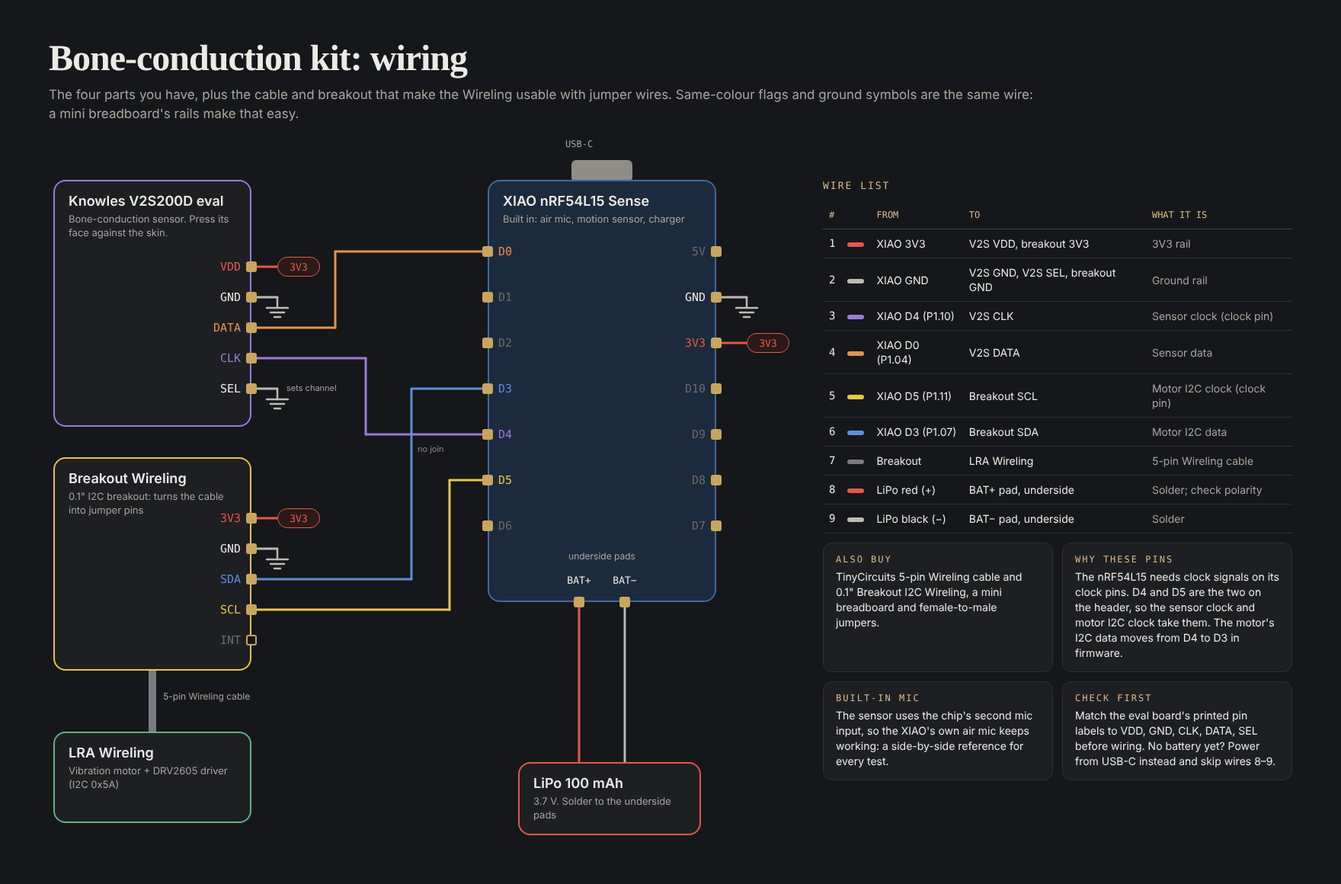
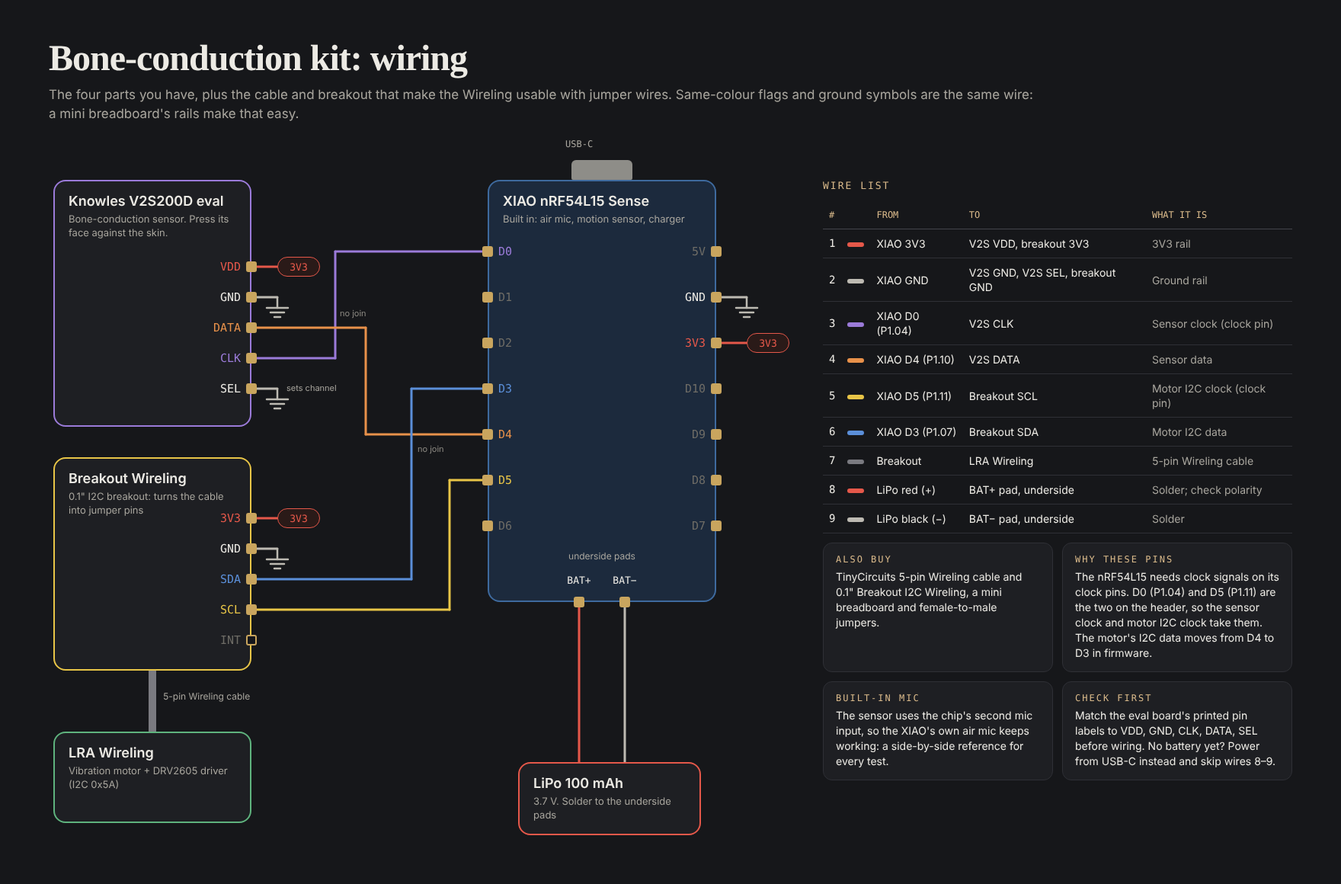
Apply Ezurio Note 7 pin map and move kit sensor clock to a clock pin
Dev board: fast clocks move off P1.09-P1.12 (PDM_CLK P1.03, TDM_BCLK P1.08,
I2C_SCL P1.04, I2C_SDA P1.13). Only slow signals stay on the Note 7 pins,
each through a 330 R (R7-R9). I2C test points added. Checker enforces Note 7
and the confirmed clock-pin list (P1.03, P1.04, P1.08, P1.11, P1.12).

Kit: P1.10 is not a clock pin, so the V2S200D clock moves to D0 (P1.04)
and its data to D4.

Claude-Session: https://claude.ai/code/session_01DUSU7jbUyc6QVB5XjyAbxC

diff --git a/hardware/kit/kit_wiring.html b/hardware/kit/kit_wiring.html
@@ -19,12 +19,12 @@ a{color:#D9B98A}a:hover{color:#F0D7AE}
 <svg width="8" height="80" viewBox="0 0 8 80" preserveAspectRatio="none" style="position: absolute; left: 196px; top: 880px; width: 8px; height: 80px; overflow: visible; fill: none; stroke: #7A7A80; stroke-width: 10; stroke-linecap: round"><path d="M 4 0 L 4 80"></path></svg>
 <svg width="8" height="210" viewBox="0 0 8 210" preserveAspectRatio="none" style="position: absolute; left: 756px; top: 790px; width: 8px; height: 210px; overflow: visible; fill: none; stroke: #E5584A; stroke-width: 3; stroke-linecap: round"><path d="M 4 0 L 4 210"></path></svg>
 <svg width="8" height="210" viewBox="0 0 8 210" preserveAspectRatio="none" style="position: absolute; left: 816px; top: 790px; width: 8px; height: 210px; overflow: visible; fill: none; stroke: #BDBAB2; stroke-width: 3; stroke-linecap: round"><path d="M 4 0 L 4 210"></path></svg>
-<svg width="110" height="8" viewBox="0 0 110 8" preserveAspectRatio="none" style="position: absolute; left: 330px; top: 426px; width: 110px; height: 8px; overflow: visible; fill: none; stroke: #E8914A; stroke-width: 3; stroke-linecap: round"><path d="M 0 4 L 110 4"></path></svg>
-<svg width="8" height="100" viewBox="0 0 8 100" preserveAspectRatio="none" style="position: absolute; left: 436px; top: 330px; width: 8px; height: 100px; overflow: visible; fill: none; stroke: #E8914A; stroke-width: 3; stroke-linecap: round"><path d="M 4 0 L 4 100"></path></svg>
-<svg width="200" height="8" viewBox="0 0 200 8" preserveAspectRatio="none" style="position: absolute; left: 440px; top: 326px; width: 200px; height: 8px; overflow: visible; fill: none; stroke: #E8914A; stroke-width: 3; stroke-linecap: round"><path d="M 0 4 L 200 4"></path></svg>
-<svg width="150" height="8" viewBox="0 0 150 8" preserveAspectRatio="none" style="position: absolute; left: 330px; top: 466px; width: 150px; height: 8px; overflow: visible; fill: none; stroke: #9B7BD9; stroke-width: 3; stroke-linecap: round"><path d="M 0 4 L 150 4"></path></svg>
-<svg width="8" height="100" viewBox="0 0 8 100" preserveAspectRatio="none" style="position: absolute; left: 476px; top: 470px; width: 8px; height: 100px; overflow: visible; fill: none; stroke: #9B7BD9; stroke-width: 3; stroke-linecap: round"><path d="M 4 0 L 4 100"></path></svg>
-<svg width="160" height="8" viewBox="0 0 160 8" preserveAspectRatio="none" style="position: absolute; left: 480px; top: 566px; width: 160px; height: 8px; overflow: visible; fill: none; stroke: #9B7BD9; stroke-width: 3; stroke-linecap: round"><path d="M 0 4 L 160 4"></path></svg>
+<svg width="110" height="8" viewBox="0 0 110 8" preserveAspectRatio="none" style="position: absolute; left: 330px; top: 466px; width: 110px; height: 8px; overflow: visible; fill: none; stroke: #9B7BD9; stroke-width: 3; stroke-linecap: round"><path d="M 0 4 L 110 4"></path></svg>
+<svg width="8" height="140" viewBox="0 0 8 140" preserveAspectRatio="none" style="position: absolute; left: 436px; top: 330px; width: 8px; height: 140px; overflow: visible; fill: none; stroke: #9B7BD9; stroke-width: 3; stroke-linecap: round"><path d="M 4 0 L 4 140"></path></svg>
+<svg width="200" height="8" viewBox="0 0 200 8" preserveAspectRatio="none" style="position: absolute; left: 440px; top: 326px; width: 200px; height: 8px; overflow: visible; fill: none; stroke: #9B7BD9; stroke-width: 3; stroke-linecap: round"><path d="M 0 4 L 200 4"></path></svg>
+<svg width="150" height="8" viewBox="0 0 150 8" preserveAspectRatio="none" style="position: absolute; left: 330px; top: 426px; width: 150px; height: 8px; overflow: visible; fill: none; stroke: #E8914A; stroke-width: 3; stroke-linecap: round"><path d="M 0 4 L 150 4"></path></svg>
+<svg width="8" height="140" viewBox="0 0 8 140" preserveAspectRatio="none" style="position: absolute; left: 476px; top: 430px; width: 8px; height: 140px; overflow: visible; fill: none; stroke: #E8914A; stroke-width: 3; stroke-linecap: round"><path d="M 4 0 L 4 140"></path></svg>
+<svg width="160" height="8" viewBox="0 0 160 8" preserveAspectRatio="none" style="position: absolute; left: 480px; top: 566px; width: 160px; height: 8px; overflow: visible; fill: none; stroke: #E8914A; stroke-width: 3; stroke-linecap: round"><path d="M 0 4 L 160 4"></path></svg>
 <svg width="210" height="8" viewBox="0 0 210 8" preserveAspectRatio="none" style="position: absolute; left: 330px; top: 756px; width: 210px; height: 8px; overflow: visible; fill: none; stroke: #5B8FD9; stroke-width: 3; stroke-linecap: round"><path d="M 0 4 L 210 4"></path></svg>
 <svg width="8" height="250" viewBox="0 0 8 250" preserveAspectRatio="none" style="position: absolute; left: 536px; top: 510px; width: 8px; height: 250px; overflow: visible; fill: none; stroke: #5B8FD9; stroke-width: 3; stroke-linecap: round"><path d="M 4 0 L 4 250"></path></svg>
 <svg width="100" height="8" viewBox="0 0 100 8" preserveAspectRatio="none" style="position: absolute; left: 540px; top: 506px; width: 100px; height: 8px; overflow: visible; fill: none; stroke: #5B8FD9; stroke-width: 3; stroke-linecap: round"><path d="M 0 4 L 100 4"></path></svg>
@@ -64,7 +64,7 @@ a{color:#D9B98A}a:hover{color:#F0D7AE}
 <div style="position: absolute; left: 660px; top: 278px; width: 260px; font-size: 13px; line-height: 18px; color: #A9A69E">Built in: air mic, motion sensor, charger</div>
 <div style="position: absolute; left: 742px; top: 180px; width: 100px; font-size: 12px; line-height: 17px; color: #A9A69E"><span style="font-family: IBM Plex Mono, monospace">USB-C</span></div>
 <div style="position: absolute; left: 633px; top: 323px; width: 14px; height: 14px; box-sizing: border-box; background: #C9A55E; border: 2px solid #C9A55E; border-radius: 3px"></div>
-<div style="position: absolute; left: 654px; top: 320px; width: 120px; font-family: 'IBM Plex Mono', monospace; font-size: 15px; line-height: 20px; color: #E8914A">D0</div>
+<div style="position: absolute; left: 654px; top: 320px; width: 120px; font-family: 'IBM Plex Mono', monospace; font-size: 15px; line-height: 20px; color: #9B7BD9">D0</div>
 <div style="position: absolute; left: 633px; top: 383px; width: 14px; height: 14px; box-sizing: border-box; background: #C9A55E; border: 2px solid #C9A55E; border-radius: 3px"></div>
 <div style="position: absolute; left: 654px; top: 380px; width: 120px; font-family: 'IBM Plex Mono', monospace; font-size: 15px; line-height: 20px; color: #6E6C66">D1</div>
 <div style="position: absolute; left: 633px; top: 443px; width: 14px; height: 14px; box-sizing: border-box; background: #C9A55E; border: 2px solid #C9A55E; border-radius: 3px"></div>
@@ -72,7 +72,7 @@ a{color:#D9B98A}a:hover{color:#F0D7AE}
 <div style="position: absolute; left: 633px; top: 503px; width: 14px; height: 14px; box-sizing: border-box; background: #C9A55E; border: 2px solid #C9A55E; border-radius: 3px"></div>
 <div style="position: absolute; left: 654px; top: 500px; width: 120px; font-family: 'IBM Plex Mono', monospace; font-size: 15px; line-height: 20px; color: #5B8FD9">D3</div>
 <div style="position: absolute; left: 633px; top: 563px; width: 14px; height: 14px; box-sizing: border-box; background: #C9A55E; border: 2px solid #C9A55E; border-radius: 3px"></div>
-<div style="position: absolute; left: 654px; top: 560px; width: 120px; font-family: 'IBM Plex Mono', monospace; font-size: 15px; line-height: 20px; color: #9B7BD9">D4</div>
+<div style="position: absolute; left: 654px; top: 560px; width: 120px; font-family: 'IBM Plex Mono', monospace; font-size: 15px; line-height: 20px; color: #E8914A">D4</div>
 <div style="position: absolute; left: 633px; top: 623px; width: 14px; height: 14px; box-sizing: border-box; background: #C9A55E; border: 2px solid #C9A55E; border-radius: 3px"></div>
 <div style="position: absolute; left: 654px; top: 620px; width: 120px; font-family: 'IBM Plex Mono', monospace; font-size: 15px; line-height: 20px; color: #E8C547">D5</div>
 <div style="position: absolute; left: 633px; top: 683px; width: 14px; height: 14px; box-sizing: border-box; background: #C9A55E; border: 2px solid #C9A55E; border-radius: 3px"></div>
@@ -127,11 +127,12 @@ a{color:#D9B98A}a:hover{color:#F0D7AE}
 <div style="position: absolute; left: 214px; top: 905px; width: 170px; font-size: 12px; line-height: 17px; color: #A9A69E">5-pin Wireling cable</div>
 <div style="position: absolute; left: 700px; top: 1016px; width: 200px; font-size: 18px; line-height: 24px; font-weight: 600">LiPo 100 mAh</div>
 <div style="position: absolute; left: 700px; top: 1042px; width: 200px; font-size: 13px; line-height: 18px; color: #A9A69E">3.7 V. Solder to the underside pads</div>
+<div style="position: absolute; left: 446px; top: 404px; width: 70px; font-size: 11px; line-height: 14px; color: #8E8B84">no join</div>
 <div style="position: absolute; left: 548px; top: 582px; width: 70px; font-size: 11px; line-height: 14px; color: #8E8B84">no join</div>
 <div style="position: absolute; left: 364px; top: 337px; width: 56px; height: 26px; box-sizing: border-box; display: flex; align-items: center; justify-content: center; background: #2A1A18; border: 1.5px solid #E5584A; border-radius: 13px; font-family: 'IBM Plex Mono', monospace; font-size: 13px; font-weight: 500; color: #E5584A">3V3</div>
 <div style="position: absolute; left: 364px; top: 667px; width: 56px; height: 26px; box-sizing: border-box; display: flex; align-items: center; justify-content: center; background: #2A1A18; border: 1.5px solid #E5584A; border-radius: 13px; font-family: 'IBM Plex Mono', monospace; font-size: 13px; font-weight: 500; color: #E5584A">3V3</div>
 <div style="position: absolute; left: 980px; top: 437px; width: 56px; height: 26px; box-sizing: border-box; display: flex; align-items: center; justify-content: center; background: #2A1A18; border: 1.5px solid #E5584A; border-radius: 13px; font-family: 'IBM Plex Mono', monospace; font-size: 13px; font-weight: 500; color: #E5584A">3V3</div>
-<div style="position: absolute; left: 376px; top: 502px; width: 90px; font-size: 11px; line-height: 15px; color: #A9A69E">sets channel</div><div style="position: absolute; left: 64px; top: 48px; font-family: 'Bricolage Grotesque', Georgia, serif; font-size: 48px; font-weight: 700; letter-spacing: -1px; line-height: 56px">Bone-conduction kit: wiring</div><div style="position: absolute; left: 64px; top: 112px; width: 1300px; font-size: 17px; line-height: 25px; color: #A9A69E">The four parts you have, plus the cable and breakout that make the Wireling usable with jumper wires. Same-colour flags and ground symbols are the same wire: a mini breadboard's rails make that easy.</div><div style="position: absolute; left: 1080px; top: 236px; width: 616px; display: flex; flex-direction: column; gap: 14px"><div style="font-family: 'IBM Plex Mono', monospace; font-size: 13px; letter-spacing: 2px; color: #D9B98A">WIRE LIST</div><table style="width: 616px; border-collapse: collapse; font-size: 14px; line-height: 19px; text-align: left"><tr><th style="padding: 8px; font-family: 'IBM Plex Mono', monospace; font-size: 12px; font-weight: 500; color: #D9B98A; border-bottom: 1px solid #44454B">#</th><th style="border-bottom: 1px solid #44454B"></th><th style="padding: 8px; font-family: 'IBM Plex Mono', monospace; font-size: 12px; font-weight: 500; color: #D9B98A; border-bottom: 1px solid #44454B">FROM</th><th style="padding: 8px; font-family: 'IBM Plex Mono', monospace; font-size: 12px; font-weight: 500; color: #D9B98A; border-bottom: 1px solid #44454B">TO</th><th style="padding: 8px; font-family: 'IBM Plex Mono', monospace; font-size: 12px; font-weight: 500; color: #D9B98A; border-bottom: 1px solid #44454B">WHAT IT IS</th></tr><tr><td style="padding: 9px 8px; border-bottom: 1px solid #2F3036; font-family: 'IBM Plex Mono', monospace">1</td><td style="padding: 9px 8px; border-bottom: 1px solid #2F3036"><span style="display: inline-block; width: 22px; height: 6px; border-radius: 3px; background: #E5584A; vertical-align: middle"></span></td><td style="padding: 9px 8px; border-bottom: 1px solid #2F3036">XIAO 3V3</td><td style="padding: 9px 8px; border-bottom: 1px solid #2F3036">V2S VDD, breakout 3V3</td><td style="padding: 9px 8px; border-bottom: 1px solid #2F3036; color: #A9A69E">3V3 rail</td></tr><tr><td style="padding: 9px 8px; border-bottom: 1px solid #2F3036; font-family: 'IBM Plex Mono', monospace">2</td><td style="padding: 9px 8px; border-bottom: 1px solid #2F3036"><span style="display: inline-block; width: 22px; height: 6px; border-radius: 3px; background: #BDBAB2; vertical-align: middle"></span></td><td style="padding: 9px 8px; border-bottom: 1px solid #2F3036">XIAO GND</td><td style="padding: 9px 8px; border-bottom: 1px solid #2F3036">V2S GND, V2S SEL, breakout GND</td><td style="padding: 9px 8px; border-bottom: 1px solid #2F3036; color: #A9A69E">Ground rail</td></tr><tr><td style="padding: 9px 8px; border-bottom: 1px solid #2F3036; font-family: 'IBM Plex Mono', monospace">3</td><td style="padding: 9px 8px; border-bottom: 1px solid #2F3036"><span style="display: inline-block; width: 22px; height: 6px; border-radius: 3px; background: #9B7BD9; vertical-align: middle"></span></td><td style="padding: 9px 8px; border-bottom: 1px solid #2F3036">XIAO D4 (P1.10)</td><td style="padding: 9px 8px; border-bottom: 1px solid #2F3036">V2S CLK</td><td style="padding: 9px 8px; border-bottom: 1px solid #2F3036; color: #A9A69E">Sensor clock (clock pin)</td></tr><tr><td style="padding: 9px 8px; border-bottom: 1px solid #2F3036; font-family: 'IBM Plex Mono', monospace">4</td><td style="padding: 9px 8px; border-bottom: 1px solid #2F3036"><span style="display: inline-block; width: 22px; height: 6px; border-radius: 3px; background: #E8914A; vertical-align: middle"></span></td><td style="padding: 9px 8px; border-bottom: 1px solid #2F3036">XIAO D0 (P1.04)</td><td style="padding: 9px 8px; border-bottom: 1px solid #2F3036">V2S DATA</td><td style="padding: 9px 8px; border-bottom: 1px solid #2F3036; color: #A9A69E">Sensor data</td></tr><tr><td style="padding: 9px 8px; border-bottom: 1px solid #2F3036; font-family: 'IBM Plex Mono', monospace">5</td><td style="padding: 9px 8px; border-bottom: 1px solid #2F3036"><span style="display: inline-block; width: 22px; height: 6px; border-radius: 3px; background: #E8C547; vertical-align: middle"></span></td><td style="padding: 9px 8px; border-bottom: 1px solid #2F3036">XIAO D5 (P1.11)</td><td style="padding: 9px 8px; border-bottom: 1px solid #2F3036">Breakout SCL</td><td style="padding: 9px 8px; border-bottom: 1px solid #2F3036; color: #A9A69E">Motor I2C clock (clock pin)</td></tr><tr><td style="padding: 9px 8px; border-bottom: 1px solid #2F3036; font-family: 'IBM Plex Mono', monospace">6</td><td style="padding: 9px 8px; border-bottom: 1px solid #2F3036"><span style="display: inline-block; width: 22px; height: 6px; border-radius: 3px; background: #5B8FD9; vertical-align: middle"></span></td><td style="padding: 9px 8px; border-bottom: 1px solid #2F3036">XIAO D3 (P1.07)</td><td style="padding: 9px 8px; border-bottom: 1px solid #2F3036">Breakout SDA</td><td style="padding: 9px 8px; border-bottom: 1px solid #2F3036; color: #A9A69E">Motor I2C data</td></tr><tr><td style="padding: 9px 8px; border-bottom: 1px solid #2F3036; font-family: 'IBM Plex Mono', monospace">7</td><td style="padding: 9px 8px; border-bottom: 1px solid #2F3036"><span style="display: inline-block; width: 22px; height: 6px; border-radius: 3px; background: #7A7A80; vertical-align: middle"></span></td><td style="padding: 9px 8px; border-bottom: 1px solid #2F3036">Breakout</td><td style="padding: 9px 8px; border-bottom: 1px solid #2F3036">LRA Wireling</td><td style="padding: 9px 8px; border-bottom: 1px solid #2F3036; color: #A9A69E">5-pin Wireling cable</td></tr><tr><td style="padding: 9px 8px; border-bottom: 1px solid #2F3036; font-family: 'IBM Plex Mono', monospace">8</td><td style="padding: 9px 8px; border-bottom: 1px solid #2F3036"><span style="display: inline-block; width: 22px; height: 6px; border-radius: 3px; background: #E5584A; vertical-align: middle"></span></td><td style="padding: 9px 8px; border-bottom: 1px solid #2F3036">LiPo red (+)</td><td style="padding: 9px 8px; border-bottom: 1px solid #2F3036">BAT+ pad, underside</td><td style="padding: 9px 8px; border-bottom: 1px solid #2F3036; color: #A9A69E">Solder; check polarity</td></tr><tr><td style="padding: 9px 8px; border-bottom: 1px solid #2F3036; font-family: 'IBM Plex Mono', monospace">9</td><td style="padding: 9px 8px; border-bottom: 1px solid #2F3036"><span style="display: inline-block; width: 22px; height: 6px; border-radius: 3px; background: #BDBAB2; vertical-align: middle"></span></td><td style="padding: 9px 8px; border-bottom: 1px solid #2F3036">LiPo black (−)</td><td style="padding: 9px 8px; border-bottom: 1px solid #2F3036">BAT− pad, underside</td><td style="padding: 9px 8px; border-bottom: 1px solid #2F3036; color: #A9A69E">Solder</td></tr></table></div><div style="position: absolute; left: 1080px; top: 712px; width: 616px; display: grid; grid-template-columns: repeat(2, minmax(0, 1fr)); gap: 12px"><div style="background: #1E1F23; border: 1px solid #2F3036; border-radius: 12px; padding: 14px 16px; display: flex; flex-direction: column; gap: 6px"><div style="font-family: 'IBM Plex Mono', monospace; font-size: 12px; letter-spacing: 2px; color: #D9B98A">ALSO BUY</div><div style="font-size: 14px; line-height: 20px">TinyCircuits 5-pin Wireling cable and 0.1&quot; Breakout I2C Wireling, a mini breadboard and female-to-male jumpers.</div></div><div style="background: #1E1F23; border: 1px solid #2F3036; border-radius: 12px; padding: 14px 16px; display: flex; flex-direction: column; gap: 6px"><div style="font-family: 'IBM Plex Mono', monospace; font-size: 12px; letter-spacing: 2px; color: #D9B98A">WHY THESE PINS</div><div style="font-size: 14px; line-height: 20px">The nRF54L15 needs clock signals on its clock pins. D4 and D5 are the two on the header, so the sensor clock and motor I2C clock take them. The motor's I2C data moves from D4 to D3 in firmware.</div></div><div style="background: #1E1F23; border: 1px solid #2F3036; border-radius: 12px; padding: 14px 16px; display: flex; flex-direction: column; gap: 6px"><div style="font-family: 'IBM Plex Mono', monospace; font-size: 12px; letter-spacing: 2px; color: #D9B98A">BUILT-IN MIC</div><div style="font-size: 14px; line-height: 20px">The sensor uses the chip's second mic input, so the XIAO's own air mic keeps working: a side-by-side reference for every test.</div></div><div style="background: #1E1F23; border: 1px solid #2F3036; border-radius: 12px; padding: 14px 16px; display: flex; flex-direction: column; gap: 6px"><div style="font-family: 'IBM Plex Mono', monospace; font-size: 12px; letter-spacing: 2px; color: #D9B98A">CHECK FIRST</div><div style="font-size: 14px; line-height: 20px">Match the eval board's printed pin labels to VDD, GND, CLK, DATA, SEL before wiring. No battery yet? Power from USB-C instead and skip wires 8–9.</div></div></div>
+<div style="position: absolute; left: 376px; top: 502px; width: 90px; font-size: 11px; line-height: 15px; color: #A9A69E">sets channel</div><div style="position: absolute; left: 64px; top: 48px; font-family: 'Bricolage Grotesque', Georgia, serif; font-size: 48px; font-weight: 700; letter-spacing: -1px; line-height: 56px">Bone-conduction kit: wiring</div><div style="position: absolute; left: 64px; top: 112px; width: 1300px; font-size: 17px; line-height: 25px; color: #A9A69E">The four parts you have, plus the cable and breakout that make the Wireling usable with jumper wires. Same-colour flags and ground symbols are the same wire: a mini breadboard's rails make that easy.</div><div style="position: absolute; left: 1080px; top: 236px; width: 616px; display: flex; flex-direction: column; gap: 14px"><div style="font-family: 'IBM Plex Mono', monospace; font-size: 13px; letter-spacing: 2px; color: #D9B98A">WIRE LIST</div><table style="width: 616px; border-collapse: collapse; font-size: 14px; line-height: 19px; text-align: left"><tr><th style="padding: 8px; font-family: 'IBM Plex Mono', monospace; font-size: 12px; font-weight: 500; color: #D9B98A; border-bottom: 1px solid #44454B">#</th><th style="border-bottom: 1px solid #44454B"></th><th style="padding: 8px; font-family: 'IBM Plex Mono', monospace; font-size: 12px; font-weight: 500; color: #D9B98A; border-bottom: 1px solid #44454B">FROM</th><th style="padding: 8px; font-family: 'IBM Plex Mono', monospace; font-size: 12px; font-weight: 500; color: #D9B98A; border-bottom: 1px solid #44454B">TO</th><th style="padding: 8px; font-family: 'IBM Plex Mono', monospace; font-size: 12px; font-weight: 500; color: #D9B98A; border-bottom: 1px solid #44454B">WHAT IT IS</th></tr><tr><td style="padding: 9px 8px; border-bottom: 1px solid #2F3036; font-family: 'IBM Plex Mono', monospace">1</td><td style="padding: 9px 8px; border-bottom: 1px solid #2F3036"><span style="display: inline-block; width: 22px; height: 6px; border-radius: 3px; background: #E5584A; vertical-align: middle"></span></td><td style="padding: 9px 8px; border-bottom: 1px solid #2F3036">XIAO 3V3</td><td style="padding: 9px 8px; border-bottom: 1px solid #2F3036">V2S VDD, breakout 3V3</td><td style="padding: 9px 8px; border-bottom: 1px solid #2F3036; color: #A9A69E">3V3 rail</td></tr><tr><td style="padding: 9px 8px; border-bottom: 1px solid #2F3036; font-family: 'IBM Plex Mono', monospace">2</td><td style="padding: 9px 8px; border-bottom: 1px solid #2F3036"><span style="display: inline-block; width: 22px; height: 6px; border-radius: 3px; background: #BDBAB2; vertical-align: middle"></span></td><td style="padding: 9px 8px; border-bottom: 1px solid #2F3036">XIAO GND</td><td style="padding: 9px 8px; border-bottom: 1px solid #2F3036">V2S GND, V2S SEL, breakout GND</td><td style="padding: 9px 8px; border-bottom: 1px solid #2F3036; color: #A9A69E">Ground rail</td></tr><tr><td style="padding: 9px 8px; border-bottom: 1px solid #2F3036; font-family: 'IBM Plex Mono', monospace">3</td><td style="padding: 9px 8px; border-bottom: 1px solid #2F3036"><span style="display: inline-block; width: 22px; height: 6px; border-radius: 3px; background: #9B7BD9; vertical-align: middle"></span></td><td style="padding: 9px 8px; border-bottom: 1px solid #2F3036">XIAO D0 (P1.04)</td><td style="padding: 9px 8px; border-bottom: 1px solid #2F3036">V2S CLK</td><td style="padding: 9px 8px; border-bottom: 1px solid #2F3036; color: #A9A69E">Sensor clock (clock pin)</td></tr><tr><td style="padding: 9px 8px; border-bottom: 1px solid #2F3036; font-family: 'IBM Plex Mono', monospace">4</td><td style="padding: 9px 8px; border-bottom: 1px solid #2F3036"><span style="display: inline-block; width: 22px; height: 6px; border-radius: 3px; background: #E8914A; vertical-align: middle"></span></td><td style="padding: 9px 8px; border-bottom: 1px solid #2F3036">XIAO D4 (P1.10)</td><td style="padding: 9px 8px; border-bottom: 1px solid #2F3036">V2S DATA</td><td style="padding: 9px 8px; border-bottom: 1px solid #2F3036; color: #A9A69E">Sensor data</td></tr><tr><td style="padding: 9px 8px; border-bottom: 1px solid #2F3036; font-family: 'IBM Plex Mono', monospace">5</td><td style="padding: 9px 8px; border-bottom: 1px solid #2F3036"><span style="display: inline-block; width: 22px; height: 6px; border-radius: 3px; background: #E8C547; vertical-align: middle"></span></td><td style="padding: 9px 8px; border-bottom: 1px solid #2F3036">XIAO D5 (P1.11)</td><td style="padding: 9px 8px; border-bottom: 1px solid #2F3036">Breakout SCL</td><td style="padding: 9px 8px; border-bottom: 1px solid #2F3036; color: #A9A69E">Motor I2C clock (clock pin)</td></tr><tr><td style="padding: 9px 8px; border-bottom: 1px solid #2F3036; font-family: 'IBM Plex Mono', monospace">6</td><td style="padding: 9px 8px; border-bottom: 1px solid #2F3036"><span style="display: inline-block; width: 22px; height: 6px; border-radius: 3px; background: #5B8FD9; vertical-align: middle"></span></td><td style="padding: 9px 8px; border-bottom: 1px solid #2F3036">XIAO D3 (P1.07)</td><td style="padding: 9px 8px; border-bottom: 1px solid #2F3036">Breakout SDA</td><td style="padding: 9px 8px; border-bottom: 1px solid #2F3036; color: #A9A69E">Motor I2C data</td></tr><tr><td style="padding: 9px 8px; border-bottom: 1px solid #2F3036; font-family: 'IBM Plex Mono', monospace">7</td><td style="padding: 9px 8px; border-bottom: 1px solid #2F3036"><span style="display: inline-block; width: 22px; height: 6px; border-radius: 3px; background: #7A7A80; vertical-align: middle"></span></td><td style="padding: 9px 8px; border-bottom: 1px solid #2F3036">Breakout</td><td style="padding: 9px 8px; border-bottom: 1px solid #2F3036">LRA Wireling</td><td style="padding: 9px 8px; border-bottom: 1px solid #2F3036; color: #A9A69E">5-pin Wireling cable</td></tr><tr><td style="padding: 9px 8px; border-bottom: 1px solid #2F3036; font-family: 'IBM Plex Mono', monospace">8</td><td style="padding: 9px 8px; border-bottom: 1px solid #2F3036"><span style="display: inline-block; width: 22px; height: 6px; border-radius: 3px; background: #E5584A; vertical-align: middle"></span></td><td style="padding: 9px 8px; border-bottom: 1px solid #2F3036">LiPo red (+)</td><td style="padding: 9px 8px; border-bottom: 1px solid #2F3036">BAT+ pad, underside</td><td style="padding: 9px 8px; border-bottom: 1px solid #2F3036; color: #A9A69E">Solder; check polarity</td></tr><tr><td style="padding: 9px 8px; border-bottom: 1px solid #2F3036; font-family: 'IBM Plex Mono', monospace">9</td><td style="padding: 9px 8px; border-bottom: 1px solid #2F3036"><span style="display: inline-block; width: 22px; height: 6px; border-radius: 3px; background: #BDBAB2; vertical-align: middle"></span></td><td style="padding: 9px 8px; border-bottom: 1px solid #2F3036">LiPo black (−)</td><td style="padding: 9px 8px; border-bottom: 1px solid #2F3036">BAT− pad, underside</td><td style="padding: 9px 8px; border-bottom: 1px solid #2F3036; color: #A9A69E">Solder</td></tr></table></div><div style="position: absolute; left: 1080px; top: 712px; width: 616px; display: grid; grid-template-columns: repeat(2, minmax(0, 1fr)); gap: 12px"><div style="background: #1E1F23; border: 1px solid #2F3036; border-radius: 12px; padding: 14px 16px; display: flex; flex-direction: column; gap: 6px"><div style="font-family: 'IBM Plex Mono', monospace; font-size: 12px; letter-spacing: 2px; color: #D9B98A">ALSO BUY</div><div style="font-size: 14px; line-height: 20px">TinyCircuits 5-pin Wireling cable and 0.1&quot; Breakout I2C Wireling, a mini breadboard and female-to-male jumpers.</div></div><div style="background: #1E1F23; border: 1px solid #2F3036; border-radius: 12px; padding: 14px 16px; display: flex; flex-direction: column; gap: 6px"><div style="font-family: 'IBM Plex Mono', monospace; font-size: 12px; letter-spacing: 2px; color: #D9B98A">WHY THESE PINS</div><div style="font-size: 14px; line-height: 20px">The nRF54L15 needs clock signals on its clock pins. D0 (P1.04) and D5 (P1.11) are the two on the header, so the sensor clock and motor I2C clock take them. The motor's I2C data moves from D4 to D3 in firmware.</div></div><div style="background: #1E1F23; border: 1px solid #2F3036; border-radius: 12px; padding: 14px 16px; display: flex; flex-direction: column; gap: 6px"><div style="font-family: 'IBM Plex Mono', monospace; font-size: 12px; letter-spacing: 2px; color: #D9B98A">BUILT-IN MIC</div><div style="font-size: 14px; line-height: 20px">The sensor uses the chip's second mic input, so the XIAO's own air mic keeps working: a side-by-side reference for every test.</div></div><div style="background: #1E1F23; border: 1px solid #2F3036; border-radius: 12px; padding: 14px 16px; display: flex; flex-direction: column; gap: 6px"><div style="font-family: 'IBM Plex Mono', monospace; font-size: 12px; letter-spacing: 2px; color: #D9B98A">CHECK FIRST</div><div style="font-size: 14px; line-height: 20px">Match the eval board's printed pin labels to VDD, GND, CLK, DATA, SEL before wiring. No battery yet? Power from USB-C instead and skip wires 8–9.</div></div></div>
 </div>
 </x-dc>
 <script type="text/x-dc" data-dc-script data-props='{"$preview":{"width":1760,"height":1160}}'>

diff --git a/hardware/devboard/devboard_circuit.py b/hardware/devboard/devboard_circuit.py
@@ -42,20 +42,22 @@ def part(ref, lib, fp, value, mpn, pins, supply=(), i2c=None, note="", status="F
 # --- U1 radio module: Ezurio BL54L15u (453-00223, chip antenna). Pad map from Ezurio datasheet v1.1.
 u1 = {
     "2": "HAPTIC_EN",      # P2.00 (output; P2 is fine for outputs)
-    "3": "TDM_WCLK",       # P1.08 clock pin  -> I2S LRCK
+    "3": "TDM_BCLK",       # P1.08 clock pin  -> I2S SCK
     "5": "1V8",            # VDD_nRF
     "6": "HAPTIC_TRIG",    # P2.01
     "7": "TDM_DIN",        # P1.06 -> I2S SDIN
     "8": "IMU_INT1",       # P1.07 interrupt
     "13": "MIC_THSEL",     # P2.02
     "15": "MIC_WAKE",      # P1.05 interrupt
-    "17": "PMIC_INT",      # P1.04 interrupt
+    "9": "PDM_CLK",        # P1.03 clock pin
+    "17": "I2C_SCL",       # P1.04 clock pin
     "18": "PDM_DIN",       # P1.14
-    "19": "PDM_CLK",       # P1.12 clock pin
-    "20": "I2C_SCL",       # P1.13 clock pin
-    "21": "EXP_P1_10",     # P1.10 (clock-capable, spare to header)
-    "22": "I2C_SDA",       # P1.09
-    "23": "TDM_BCLK",      # P1.11 clock pin -> I2S SCK
+    # Ezurio Note 7: P1.09-P1.12 must toggle below 1 MHz with >=330 R series resistance.
+    # Only slow push-pull/input signals go there, each through a 330 R (R7-R9); no I2C.
+    "19": "U1_EXP_P1_12",  # P1.12 spare to header via R9 (<1 MHz)
+    "20": "I2C_SDA",       # P1.13
+    "21": "U1_PMIC_INT",   # P1.10 interrupt via R8
+    "23": "U1_TDM_WCLK",   # P1.11 -> I2S LRCK via R7 (8-48 kHz)
     "25": "SWDCLK", "27": "SWDIO", "32": "nRESET",
     "35": "EXP_P0_01",     # P0.01 spare to header
     "38": "BTN_USER",      # P0.00 user button (internal pull-up)
@@ -64,7 +66,7 @@ for g in ["4", "14", "24", "28", "31", "34", "36", "39", "G1", "G2", "G3", "G4",
     u1[g] = "GND"
 part("U1", CUE, "Ezurio_BL54L15u_453-00223", "BL54L15u", "Ezurio 453-00223", u1,
      supply=[("5", 1.7, 3.5)],
-     nc=["1", "9", "10", "11", "12", "16", "26", "29", "30", "33", "37", "40", "41", "42", "43", "44", "45"],
+     nc=["1", "10", "11", "12", "16", "22", "26", "29", "30", "33", "37", "40", "41", "42", "43", "44", "45"],
      note="Certified nRF54L15 module, chip antenna, 7.9x6.3x1.75 mm. Place on board edge; no copper under antenna.")
 
 # --- U2 PMIC: Nordic nPM1300 QFN32 (pin numbers from Nordic product spec). EP = AVSS.
@@ -114,7 +116,7 @@ part("J4", FP + "Connector_PinHeader_1.27mm.pretty", "PinHeader_2x05_P1.27mm_Ver
      nc=["6", "7", "8"], note="ARM Cortex 10-pin debug pinout. VTref = 1V8.")
 part("J5", FP + "Connector_PinHeader_2.54mm.pretty", "PinHeader_2x05_P2.54mm_Vertical", "EXP",
      "2x5 2.54 mm header", {"1": "VSYS", "2": "GND", "3": "1V8", "4": "3V0", "5": "I2C_SDA", "6": "I2C_SCL",
-                             "7": "PDM_CLK", "8": "PDM_DIN", "9": "EXP_P0_01", "10": "EXP_P1_10"},
+                             "7": "PDM_CLK", "8": "PDM_DIN", "9": "EXP_P0_01", "10": "EXP_P1_12"},
      note="Expansion: V2S200D eval (PDM left channel), IQS227 eval (3V0), scope probing.")
 
 # --- Protection, passives
@@ -154,6 +156,10 @@ res("R1", "4.7k", "I2C_SDA", "1V8"); res("R2", "4.7k", "I2C_SCL", "1V8")
 res("R3", "47k", "VSET1", "GND", note="VSET1 per Nordic reference circuit (BUCK1 1.8 V) - confirm in PS table")
 res("R4", "150k", "VSET2", "GND", note="VSET2 per Nordic reference circuit (BUCK2 3.0 V) - confirm in PS table")
 res("R6", "0R", "QVAR1", "TOUCH_E", note="Qvar series element, value TBC with ST guidance")
+note7 = "Ezurio Note 7: >=330 R series on P1.09-P1.12; place at U1 pad"
+res("R7", "330R", "U1_TDM_WCLK", "TDM_WCLK", note=note7)
+res("R8", "330R", "U1_PMIC_INT", "PMIC_INT", note=note7)
+res("R9", "330R", "U1_EXP_P1_12", "EXP_P1_12", note=note7 + "; J5 pin 10 is <1 MHz only")
 
 part("E1", CUE, "Touch_Pad_4x3mm", "TOUCH", "Copper pad (shell contact)", {"1": "TOUCH_E"},
      note="Qvar touch electrode; solder a wire to the shell or touch directly.")
@@ -162,7 +168,7 @@ part("SW1", FP + "Button_Switch_SMD.pretty", "SW_SPST_B3U-1000P", "USER", "Omron
 part("SW2", FP + "Button_Switch_SMD.pretty", "SW_SPST_B3U-1000P", "SHIP/WAKE", "Omron B3U-1000P",
      {"1": "SHPHLD", "2": "GND"}, note="Hold to leave ship mode / power on.")
 
-for i, n in enumerate(["VBUS", "VBAT", "VSYS", "1V8", "3V0", "MIC_1V8", "GND", "PMIC_INT"], start=1):
+for i, n in enumerate(["VBUS", "VBAT", "VSYS", "1V8", "3V0", "MIC_1V8", "GND", "PMIC_INT", "I2C_SDA", "I2C_SCL"], start=1):
     part(f"TP{i}", FP + "TestPoint.pretty", "TestPoint_Pad_D1.0mm", f"TP {n}", "Test pad", {"1": n})
 for i in range(1, 4):
     part(f"FID{i}", FP + "Fiducial.pretty", "Fiducial_0.5mm_Mask1mm", "FID", "Fiducial", {})
@@ -203,18 +209,28 @@ def check():
     for a, refs in addrs.items():
         (problems if len(refs) > 1 else oks).append(f"I2C 0x{a:02X} -> {refs}")
     # nRF54L15 port rules (U1 pad -> port.pin from Ezurio map)
-    port = {"2": "P2.00", "3": "P1.08", "6": "P2.01", "7": "P1.06", "8": "P1.07", "13": "P2.02", "15": "P1.05",
+    port = {"2": "P2.00", "3": "P1.08", "9": "P1.03", "6": "P2.01", "7": "P1.06", "8": "P1.07", "13": "P2.02", "15": "P1.05",
             "17": "P1.04", "18": "P1.14", "19": "P1.12", "20": "P1.13", "21": "P1.10", "22": "P1.09", "23": "P1.11",
             "35": "P0.01", "38": "P0.00"}
-    clock_pins = {"P1.08", "P1.11", "P1.12", "P1.13"}
+    # Clock pins confirmed in the nRF54L15 pin table (via Flux review, Oct 2026).
+    # LRCK (TDM_WCLK) does not need a clock pin.
+    clock_pins = {"P1.03", "P1.04", "P1.08", "P1.11", "P1.12"}
+    note7 = {"P1.09", "P1.10", "P1.11", "P1.12"}
     u1 = PARTS["U1"]["pins"]
     for pad, net in u1.items():
         pp = port.get(pad)
         if not pp:
             continue
+        if pp in note7:
+            r = [ref for ref, q in PARTS.items() if q["value"] == "330R" and net in q["pins"].values()]
+            if not r:
+                problems.append(f"{net} on {pp}: Ezurio Note 7 needs a >=330 R series resistor")
+            if net.removeprefix("U1_") in ("I2C_SDA", "I2C_SCL", "PDM_CLK", "TDM_BCLK"):
+                problems.append(f"{net} on {pp}: Ezurio Note 7 pins must stay below 1 MHz and off I2C")
+        net = net.removeprefix("U1_")
         if net in ("IMU_INT1", "MIC_WAKE", "PMIC_INT", "BTN_USER") and pp.startswith("P2."):
             problems.append(f"{net} on {pp}: port 2 cannot raise interrupts")
-        if net in ("I2C_SCL", "PDM_CLK", "TDM_BCLK", "TDM_WCLK") and pp not in clock_pins:
+        if net in ("I2C_SCL", "PDM_CLK", "TDM_BCLK") and pp not in clock_pins:
             problems.append(f"{net} on {pp}: not a confirmed clock pin")
         if net in ("I2C_SDA", "PDM_DIN", "TDM_DIN") and not pp.startswith("P1."):
             problems.append(f"{net} on {pp}: serial data should stay on port 1")

diff --git a/hardware/kit/kit_wiring.py b/hardware/kit/kit_wiring.py
@@ -50,7 +50,7 @@ els_cards.append(f'<div style="position: absolute; left: 750px; top: 210px; widt
 note(742, 180, 100, '<span style="font-family: IBM Plex Mono, monospace">USB-C</span>', 12)
 left = [("D0", 330), ("D1", 390), ("D2", 450), ("D3", 510), ("D4", 570), ("D5", 630), ("D6", 690)]
 right = [("5V", 330), ("GND", 390), ("3V3", 450), ("D10", 510), ("D9", 570), ("D8", 630), ("D7", 690)]
-used = {"D0": ORNG, "D3": BLUE, "D4": PURP, "D5": YEL, "GND": "#ECEAE4", "3V3": RED}
+used = {"D0": PURP, "D3": BLUE, "D4": ORNG, "D5": YEL, "GND": "#ECEAE4", "3V3": RED}
 for n, y in left:
     pin(XL, y, n, "L", used.get(n, "#6E6C66"))
 for n, y in right:
@@ -83,8 +83,9 @@ path([(760, XB), (760, 1000)], RED, 3)
 path([(820, XB), (820, 1000)], GND_C, 3)
 
 # ---------------- signal wires (left channel)
-path([(VR, 430), (440, 430), (440, 330), (XL, 330)], ORNG)       # V2S DATA -> D0
-path([(VR, 470), (480, 470), (480, 570), (XL, 570)], PURP)       # V2S CLK  -> D4
+path([(VR, 470), (440, 470), (440, 330), (XL, 330)], PURP)       # V2S CLK  -> D0 (P1.04, clock pin)
+path([(VR, 430), (480, 430), (480, 570), (XL, 570)], ORNG)       # V2S DATA -> D4
+els_labels.append(f'<div style="position: absolute; left: 446px; top: 404px; width: 70px; font-size: 11px; line-height: 14px; color: #8E8B84">no join</div>')
 path([(BR, 760), (540, 760), (540, 510), (XL, 510)], BLUE)       # SDA -> D3
 path([(BR, 800), (590, 800), (590, 630), (XL, 630)], YEL)        # SCL -> D5
 # crossing note at (540, 540)
@@ -111,8 +112,8 @@ title = ('<div style="position: absolute; left: 64px; top: 48px; font-family: \'
 rows = [
     ("1", RED, "XIAO 3V3", "V2S VDD, breakout 3V3", "3V3 rail"),
     ("2", GND_C, "XIAO GND", "V2S GND, V2S SEL, breakout GND", "Ground rail"),
-    ("3", PURP, "XIAO D4 (P1.10)", "V2S CLK", "Sensor clock (clock pin)"),
-    ("4", ORNG, "XIAO D0 (P1.04)", "V2S DATA", "Sensor data"),
+    ("3", PURP, "XIAO D0 (P1.04)", "V2S CLK", "Sensor clock (clock pin)"),
+    ("4", ORNG, "XIAO D4 (P1.10)", "V2S DATA", "Sensor data"),
     ("5", YEL, "XIAO D5 (P1.11)", "Breakout SCL", "Motor I2C clock (clock pin)"),
     ("6", BLUE, "XIAO D3 (P1.07)", "Breakout SDA", "Motor I2C data"),
     ("7", CABLE, "Breakout", "LRA Wireling", "5-pin Wireling cable"),
@@ -133,7 +134,7 @@ table = (f'<div style="position: absolute; left: 1080px; top: 236px; width: 616p
          f'{trs}</table></div>')
 notes = [
     ("ALSO BUY", "TinyCircuits 5-pin Wireling cable and 0.1&quot; Breakout I2C Wireling, a mini breadboard and female-to-male jumpers."),
-    ("WHY THESE PINS", "The nRF54L15 needs clock signals on its clock pins. D4 and D5 are the two on the header, so the sensor clock and motor I2C clock take them. The motor's I2C data moves from D4 to D3 in firmware."),
+    ("WHY THESE PINS", "The nRF54L15 needs clock signals on its clock pins. D0 (P1.04) and D5 (P1.11) are the two on the header, so the sensor clock and motor I2C clock take them. The motor's I2C data moves from D4 to D3 in firmware."),
     ("BUILT-IN MIC", "The sensor uses the chip's second mic input, so the XIAO's own air mic keeps working: a side-by-side reference for every test."),
     ("CHECK FIRST", "Match the eval board's printed pin labels to VDD, GND, CLK, DATA, SEL before wiring. No battery yet? Power from USB-C instead and skip wires 8–9."),
 ]

diff --git a/hardware/kit/README.md b/hardware/kit/README.md
@@ -19,8 +19,8 @@ How to wire the off-the-shelf parts we have to test bone conduction before the c
 | --- | ----------------- | ------------------------------- | ------------------------------ |
 | 1   | XIAO 3V3          | V2S VDD, breakout 3V3           | 3V3 rail                       |
 | 2   | XIAO GND          | V2S GND, V2S SEL, breakout GND  | Ground rail                    |
-| 3   | XIAO D4 (P1.10)   | V2S CLK                         | Sensor clock (clock pin)       |
-| 4   | XIAO D0 (P1.04)   | V2S DATA                        | Sensor data                    |
+| 3   | XIAO D0 (P1.04)   | V2S CLK                         | Sensor clock (clock pin)       |
+| 4   | XIAO D4 (P1.10)   | V2S DATA                        | Sensor data                    |
 | 5   | XIAO D5 (P1.11)   | Breakout SCL                    | Motor I2C clock (clock pin)    |
 | 6   | XIAO D3 (P1.07)   | Breakout SDA                    | Motor I2C data                 |
 | 7   | Breakout          | LRA Wireling                    | 5-pin Wireling cable           |
@@ -29,8 +29,9 @@ How to wire the off-the-shelf parts we have to test bone conduction before the c
 
 ## Notes
 
-- **Why these pins:** the nRF54L15 needs clock signals on its clock pins. D4 and D5 are the two on the header, so the
-  sensor clock and the motor I2C clock take them. The motor's I2C data moves from D4 to D3 in firmware.
+- **Why these pins:** the nRF54L15 needs clock signals on its clock pins (P1.03, P1.04, P1.08, P1.11, P1.12 per the
+  nRF54L15 pin table). D0 (P1.04) and D5 (P1.11) are the two on the header, so the sensor clock and the motor I2C
+  clock take them. The motor's I2C data moves from D4 to D3 in firmware.
 - **Built-in mic still works:** the sensor uses the chip's second mic input (PDM21), so the XIAO's own air mic stays
   available as a side-by-side reference.
 - **Check first:** match the eval board's printed pin labels to VDD, GND, CLK, DATA, SEL before wiring. No battery yet?
